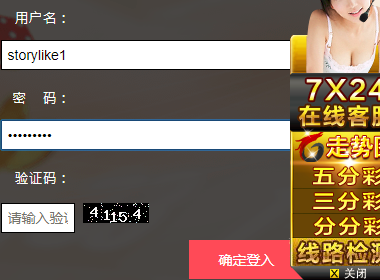
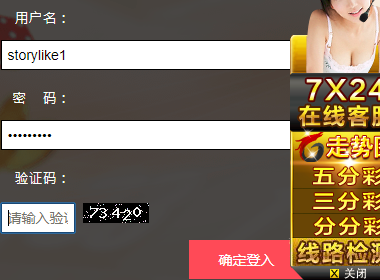
Add DOCSTRING to class methods, and SafeLogout method of Bot class.

Changed region(s): [[0.0, 0.4, 0.7526, 0.5429], [0.0, 0.7143, 0.2026, 0.8571], [0.2316, 0.7143, 0.3763, 0.8]]

diff --git a/auto_bid.py b/auto_bid.py
@@ -8,18 +8,34 @@ from selenium.webdriver.support.ui import Select
 from PIL import Image
 from pytesser import pytesser
 import time
+import random
 from config import DATETIMEFMT, BID_URL, GL_ROOT, USER, PASSWORD
 
 
 Class BidRobot(object):
-    def __init__(self, URL):
+    """
+    BidBot is a automatic biding machine.
+    """
+    def __init__(self, driver):
+        """
+        Init method.
+        :param self:
+        :param driver:
+        :return:
+        """
         self.root_url = BID_URL
         self.round = 0
         opts = FirefoxOptions()
         opts.add_argument("--headless")
-        self.driver = webdriver.Firefox(firefox_options=opts)
+        self.driver = driver
 
     def load_page(self, url = self.root_url):
+        """
+        Load page method.
+        :param self:
+        :param url:
+        :return:
+        """
         try:
             self.driver.get(url)
             logger("Get the driver of %s" % self.root_url)
@@ -27,14 +43,32 @@ Class BidRobot(object):
             logger("Fail to get the driver, because of %s." % e)
 
     def refresh(self, driver):
+        """
+        Refresh the main page.
+        :param self:
+        :param driver:
+        :return:
+        """
         driver.refresh()
     def logger(self, logmsg):
+        """
+        Logger method of this class.
+        :param self:
+        :param logmsg:
+        :return:
+        """
         date_today = time.strftime('Y-%m-%d')
         logtime = time.strftime(DATETIMEFMT)
         with open('Log\\log_' + date_today + '.txt', 'a+') as log:
             log.write(' '.join(logtime, log_string))
         print ' '.join(logtime, log_string)
     def handle_vcode(self, driver):
+        """
+        This method handles verification codes.
+        :param self:
+        :param driver:
+        :return:
+        """
         # Get login_form
         loginform = driver.find_element_by_id('login_form')
         formwidth = loginform.size['width']
@@ -45,7 +79,13 @@ Class BidRobot(object):
         top = Y
         right = X + formwidth
         bottom = Y + formheight
-        # Capture current screenshot
+        # Remove temp image captures in temp dir
+        if os.path.exists('temp\\screenshot.png'):
+            os.remove('temp\\screenshot.png')
+        if os.path.exists('temp\\screenshot_form.png'):
+            os.remove('temp\\screenshot_form.png')
+        time.sleep(5)
+        # Time to capture current screenshots
         if driver.get_screenshot_as_file('temp\\screenshot.png'):
             img = Image.open('temp\\screenshot.png')
             imgform = img.crop((left, top, right, bottom))
@@ -61,6 +101,14 @@ Class BidRobot(object):
 
 
     def login(self, driver, userid=USER, password=PASSWORD):
+        """
+        This is login method.
+        :param self:
+        :param driver:
+        :param userid:
+        :param password:
+        :return:
+        """
 
         user = driver.find_element_by_id('login').text
         print user
@@ -82,8 +130,25 @@ Class BidRobot(object):
         driver.find_elements_by_class_name('ui-dialog-button')[0].click()
         time.sleep(3)
 
+    def SafeLogOut(self, driver):
+        """
+        This is safe logout method.
+        :param self:
+        :param driver:
+        :return:
+        """
+        driver.find_element_by_css_selector("a[class='btn_logout btn b2'][id='logout']").click()
+        confirm_box = \
+        driver.find_elements_by_css_selector("button[type='button'][i-id='ok'][class='fix-ui-dialog-autofocus']")[-1]
+        confirm_box.click()
+        time.sleep(2)
 
     def WaitForNextBidCycle(self):
+        """
+        Wait for next biding cycle.
+        :param self:
+        :return:
+        """
         cur_time = time.strftime('%H:%M:%S')
         if (cur_time > '21:58:00') and (cur_time < '10:00:00'):
             # I'm only focusing on time period of 10:00 - 22.00 every day, with drawing lottery interval being 10 minutes.
@@ -93,6 +158,11 @@ Class BidRobot(object):
 
 
 def logger(log_string):
+    """
+    Logger function for main.
+    :param log_string:
+    :return:
+    """
     date_today = time.strftime('Y-%m-%d')
     logtime = time.strftime(DATETIMEFMT)
     with open('Log\\log_'+date_today+'.txt', 'a+') as log:
@@ -103,6 +173,9 @@ def logger(log_string):
 
 
 if __name__ == '__main__':
+    """
+    This is main loop.
+    """
     # Prepare Selenium driver
     chromedriver = CHROME_DRIVER_PATH
     os.environ["webdriver.chrome.driver"] = chromedriver
@@ -112,7 +185,7 @@ if __name__ == '__main__':
     print cookie
     time.sleep(2)
 
-    Bot = BidRobot()
+    Bot = BidRobot(driver)
     Bot.login(driver, USER, PASSWORD)
     Policy1 = YFFS()
 
@@ -136,14 +209,21 @@ if __name__ == '__main__':
             predicted = Policy1.Predict(driver)
             # Start biding
             Policy1.StartBid(driver, predicted)
+            time.sleep(random.randomint(10,30))
 
             ##
             ## Policy 2 handling:
             ##
 
+            time.sleep(random.randomint(10, 30))
+
             ##
             ## Policy 3 handling:
             ##
+
+
+            time.sleep(random.randomint(10, 30))
+
 
 
             # Waiting for next available biding time window
@@ -154,6 +234,7 @@ if __name__ == '__main__':
 
         except exceptions.KeyboardInterrupt:
             loggger("Keyboard interrupt, ending biding procedure!")
+            Bot.SafeLogout(self.driver)
             return 1
         except LoginErr:
             logger("Login failed for 3 rounds, this account may has been frozon, please contact JK support!")

diff --git a/Policies/YFFS.py b/Policies/YFFS.py
@@ -4,6 +4,9 @@ import beautifulsoup
 
 class YFFS(BasePolicy):
     def __init__(self):
+        """
+        Init method.
+        """
         self.name = 'BASE'
         self.current_bid_list = []
         # biddict: {bidnum:[NotRecentlyOccurredRounds, LastBidCount]}
@@ -12,21 +15,29 @@ class YFFS(BasePolicy):
                         }
         pass
     def GetHistoryData(self, driver):
-    '''
-    This policy model need to get enough history data for analysis.
-    '''
+        """
+        This policy model need to get enough history data for analysis.
+        :param driver:
+        :return:
+        """
         soup = BeautifulSoup.BeautifulSoup()
         return historydata
     def UpdateHistoryData(self, driver):
-    '''
+        """
         When time pass by, this history data need to be updated as new data is generated
-    '''
+        :param self:
+        :param driver:
+        :return:
+        """
         return historydata
     def Predict(self, data):
-    '''
+        """
         Policy core functionality. In this method, latest history data is analyzed and candidate number list for next
         round is generated.
-    '''
+        :param self:
+        :param data:
+        :return:
+        """
         predicted = self.biddict
         return predicted
     def StartBid(self, predicted):
@@ -75,12 +86,23 @@ class YFFS(BasePolicy):
 
 
     def EndBid(self):
+        """
+        End biding, clean up.
+        :param self: 
+        :return: 
+        """
         self.logger("Round {round} end, policy:{name}, bid number(s): {numlist}".format( \
             round = self.round \
             name = self.name \
             numlist = str(self.current_bid_list) \
             ))
     def GotoBidPage(self, driver):
+        """
+        Go to biding page.
+        :param self:
+        :param driver:
+        :return:
+        """
         # Click SSC link tag in main page
         driver.find_elements_by_class_name('product_01')[0].click()
 

diff --git a/login.py b/login.py
@@ -38,20 +38,24 @@ top = Y
 right = X + formwidth
 bottom = Y + formheight
 
-if driver.get_screenshot_as_file('temp\\screenshot.png'):
-	img = Image.open('temp\\screenshot.png')
-	imgform = img.crop((left, top, right, bottom))
-	imgform.save('temp\\screenshot_form.png')
-	# vcode position relative to form
-	imgvcode = imgform.crop((84, 203, 148, 222))
-	imgvcode.show()
-	vcode = input("vcode is:")
-	print vcode
-	imgvcode.save('vcodes\\' + str(vcode) + '.png')
-else:
-	raise VcodeCaptureFailure
+if os.path.exists('temp\\screenshot.png'):
+	os.remove('temp\\screenshot.png')
+if os.path.exists('temp\\screenshot_form.png'):
+	os.remove('temp\\screenshot_form.png')
+time.sleep(5)
+driver.get_screenshot_as_file('temp\\screenshot.png')
+img = Image.open('temp\\screenshot.png')
+imgform = img.crop((left, top, right, bottom))
+imgform.save('temp\\screenshot_form.png')
+# vcode position relative to form
+imgvcode = imgform.crop((84, 203, 148, 222))
+imgvcode.show()
+vcode = input("vcode is:")
+print vcode
+imgvcode.save('vcodes\\' + str(vcode) + '.png')
 
-driver.find_element_by_id('authnum').send_keys(vcode)
+
+driver.find_element_by_id('authnum').send_keys(str(vcode))
 driver.find_element_by_id('send-button').click()
 
 time.sleep(5)
